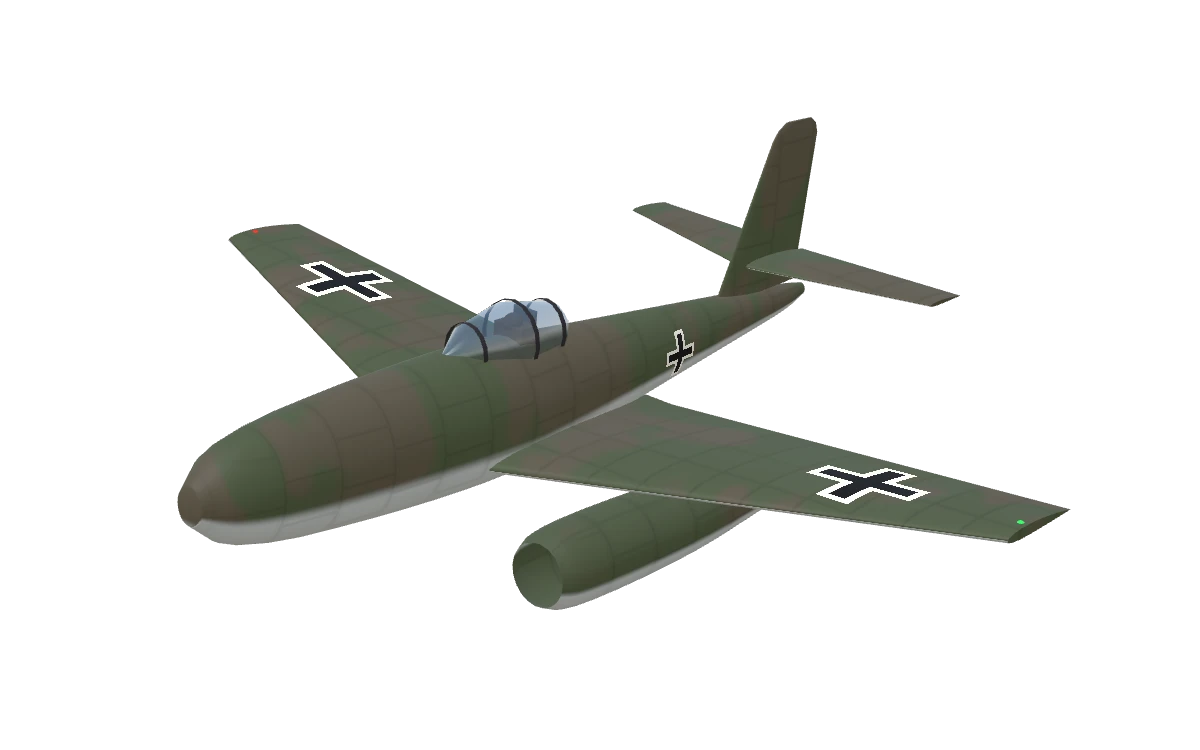
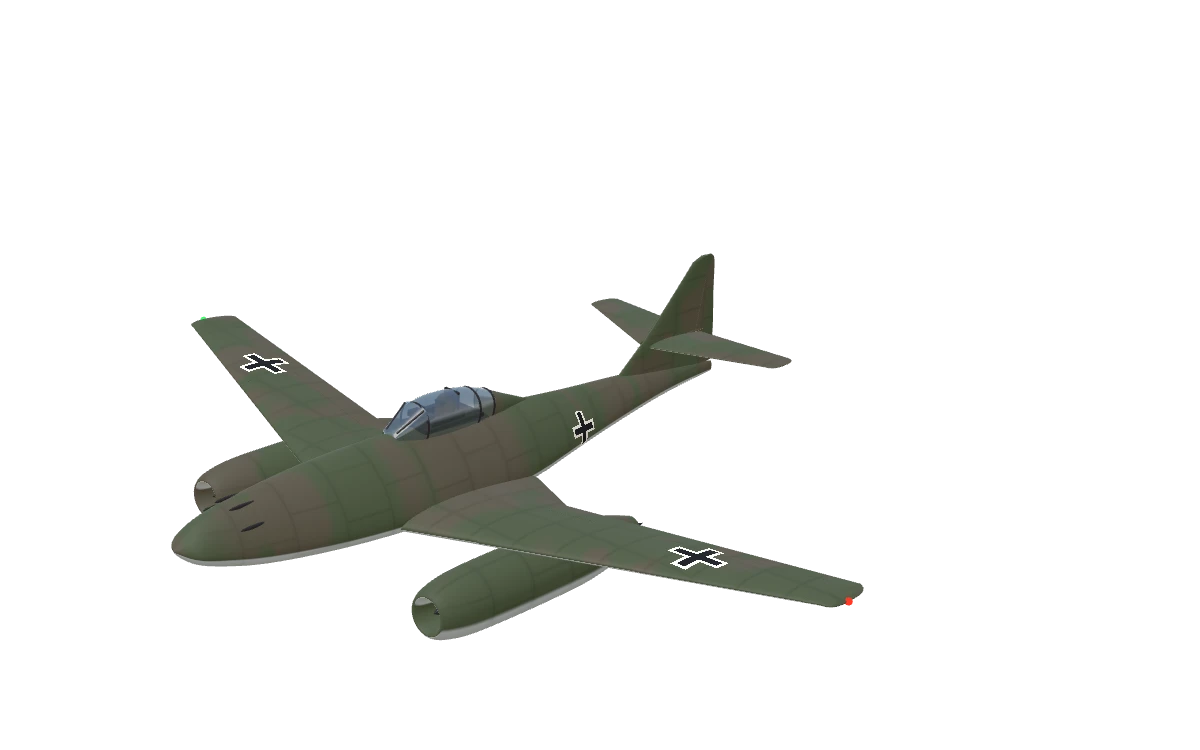
Me 262 ayrıntılı model: üç görünüş çiziminden üçgen kesitli gövde, Jumo 004 naselleri, kırık firar kenarlı kanat
- JetHull pTop: üst yarının ayrı dolgunluğu (üçgen kesit)
- Burun üstünde dört MK 108 ağzı, yana açılan kanopi, nasellerde göbekli giriş ve soğan koni
- Hareketli kumanda yüzeyleri, katlanır takım, ışıklar; gearHeight çizime göre; ansiklopedi görselleri yenilendi

Changed region(s): [[0.1233, 0.1533, 0.8942, 0.8587]]

diff --git a/src/render/models.ts b/src/render/models.ts
@@ -21,7 +21,7 @@ type Geo = THREE.BufferGeometry;
 let DETAIL = 1;
 /** Yüksek ayrıntıda ek çözünürlük çarpanı (videosu çekilen uçaklarda daha çok kenar ve profil noktası). */
 let RES = 1;
-const HIRES: Record<string, number> = { mig15: 2.4, sabre: 1.6, f84: 1.6, p80: 1.6 };
+const HIRES: Record<string, number> = { mig15: 2.4, sabre: 1.6, f84: 1.6, p80: 1.6, me262: 1.6 };
 /** Dönel parçaların kenar sayısı ayrıntıya göre. */
 const sg = (n: number) => (DETAIL ? Math.round(n * 2.25 * RES) : n);
 
@@ -771,14 +771,15 @@ const spow = (v: number, e: number) => Math.sign(v) * Math.abs(v) ** e;
 /**
  * Üç görünüş çiziminden alınmış kesitlerle yüzey (gövde, kanopi, kanal). Kesitler sırayla bağlanır: z azalırken yüz
  * dışa, artarken içe bakar; böylece hava girişi kanalın içinden başlayıp dudağı dönerek gövdeye geçebilir. Yüksek
- * ayrıntıda kesitler Chaikin ile yumuşar. p: kesit dolgunluğu (2 elips, büyüdükçe kare).
+ * ayrıntıda kesitler Chaikin ile yumuşar. p: kesit dolgunluğu (2 elips, büyüdükçe kare); pTop: üst yarının ayrı
+ * dolgunluğu (2'nin altı sivrilir: Me 262'nin üçgen kesiti).
  */
 class JetHull {
   readonly secs: JetSec[];
   /** Dış yüzey: en öndeki kesitten kuyruğa (z azalan). */
   private readonly outer: JetSec[];
 
-  constructor(raw: JetSec[], private readonly p = 2.2, smooth = true) {
+  constructor(raw: JetSec[], private readonly p = 2.2, smooth = true, private readonly pTop = p) {
     this.secs = (DETAIL && smooth ? chaikinN(raw, 2) : raw) as JetSec[];
     let nose = 0;
     this.secs.forEach((s, i) => {
@@ -802,8 +803,8 @@ class JetHull {
   /** Kesit halkasının a açısındaki noktası [x, y] (0 +x yanı, π/2 üst); off: yüzeyden dışarı pay. */
   ring(s: JetSec, a: number, off = 0): [number, number] {
     const [, w, top, bot, wy] = s;
-    const e = 2 / this.p;
     const sn = Math.sin(a);
+    const e = 2 / (sn >= 0 ? this.pTop : this.p);
     const x = w * spow(Math.cos(a), e);
     const y = (sn >= 0 ? top - wy : wy - bot) * spow(sn, e);
     const k = 1 + off / (Math.hypot(x, y) || 1);
@@ -924,7 +925,7 @@ class JetHull {
   sideX(z: number, y: number): number {
     const [, w, top, bot, wy] = this.at(z);
     const h = y >= wy ? top - wy : wy - bot;
-    const e = 2 / this.p;
+    const e = 2 / (y >= wy ? this.pTop : this.p);
     const sn = Math.min(0.999, Math.abs(y - wy) / h) ** (1 / e);
     return w * Math.sqrt(1 - sn * sn) ** e;
   }
@@ -932,7 +933,7 @@ class JetHull {
   /** Üst yüzeyde yanal x'teki y. */
   topY(z: number, x: number): number {
     const [, w, top, , wy] = this.at(z);
-    const e = 2 / this.p;
+    const e = 2 / this.pTop;
     const c = Math.min(0.999, Math.abs(x) / w) ** (1 / e);
     return wy + (top - wy) * Math.sqrt(1 - c * c) ** e;
   }
@@ -1103,6 +1104,15 @@ function shootingStarGear(gh: number): Geo[] {
     main: { x: 1.33, z: -0.21, top: -0.35, axle: -gh + 0.345, rw: 0.345, tw: 0.18, dx: 0.08, door: { dx: 0.12, top: -0.42, bot: -1.0, w: 0.66, r: 0.16 } },
     nose: { topY: -0.46, topZ: 3.25, axle: -gh + 0.28, z: 3.37, rw: 0.28, tw: 0.15 },
     belly: { x: 0.24, y: -0.58, z0: 3.3, z1: 2.35, h: 0.2 },
+  });
+}
+
+/** Me 262 takımı: yüksek duruş, 2,5 m iz, büyük ana tekerlekler gövdeye toplanır, uzun burun bacağı arkaya. */
+function schwalbeGear(gh: number): Geo[] {
+  return jetGear({
+    main: { x: 1.6, z: -0.08, top: -0.4, axle: -gh + 0.42, rw: 0.42, tw: 0.2, dx: 0.33, door: { dx: 0.09, top: -0.47, bot: -1.3, w: 0.3, r: 0.08 } },
+    nose: { topY: -0.36, topZ: 3.7, axle: -gh + 0.33, z: 3.87, rw: 0.33, tw: 0.16 },
+    belly: { x: 0.26, y: -0.5, z0: 3.2, z1: 2.2, h: 0.26 },
   });
 }
 
@@ -1484,19 +1494,67 @@ function defineModel(key: string): ModelDef {
         bombs: mirror(0.35, (x) => bombAt(x, -0.85, 0.9, 1.3)),
         tank: mirror(4.0, (x) => tankAt(-0.75, 1.0, x, 0.8)),
       };
-    case 'me262':
+    case 'me262': {
+      // Me 262 A-1a, ölçüler üç görünüş çiziminden. Üçgen kesitli gövde (geniş alt, dar üst), sivri burun ve üstünde dört
+      // MK 108 ağzı, yana açılan kanopi. Kanat kökte kalın, firar kenarı motorun içinde kırılır; hücum kenarı oklu.
+      // Kanat altında yuvarlak Jumo 004 naselleri: küçük giriş ve içinde göbek, arkada koyu egzoz ve soğan biçimli koni.
+      const H = new JetHull([
+        [4.4, 0.01, 0.01, -0.02, 0], [4.25, 0.3, 0.18, -0.18, -0.04], [3.95, 0.4, 0.36, -0.3, -0.08], [3.29, 0.58, 0.48, -0.46, -0.16], [2.01, 0.79, 0.61, -0.57, -0.24],
+        [0.38, 0.85, 0.63, -0.66, -0.3], [-1.2, 0.76, 0.55, -0.66, -0.3], [-2.65, 0.52, 0.42, -0.46, -0.16], [-3.87, 0.36, 0.36, -0.3, -0.04], [-5.08, 0.18, 0.27, -0.18, 0.02], [-6.3, 0.03, 0.07, -0.11, -0.02],
+      ], 2.15, true, 1.6);
+      const W: WingOpts = { x0: 1.85, z: 0.997, root: 1.757, y: -0.25, tipX: 6.24, tip: 0.86, sweep: 1.51, dihedral: 4.5, t: 0.22 };
+      const T: WingOpts = { x0: 0.1, z: -4.52, root: 1.28, y: 0.72, tipX: 1.79, tip: 0.63, sweep: 0.79, dihedral: 0, t: 0.11 };
+      const tipY = W.y + (W.tipX - W.x0) * tanD(W.dihedral);
+      const up = new THREE.Vector3(0, 1, 0);
+      const NX = 2.25;
+      const NY = -0.74;
+      const nacelle = (sd: number): Geo[] => {
+        const o = { x: sd * NX, y: NY };
+        return [
+          body([[1.9, 0.17], [2.15, 0.2], [2.25, 0.25], [2.22, 0.3], [2.1, 0.36], [1.75, 0.43], [1.2, 0.45], [0.3, 0.455], [-0.6, 0.44], [-1.2, 0.34], [-1.6, 0.22], [-1.72, 0.18]], 12, { ...o, smooth: true }),
+          tag(body([[1.3, 0.14], [1.92, 0.175]], 12, o), 'dark'),
+          tag(new THREE.CircleGeometry(0.14, sg(12)).translate(o.x, o.y, 1.3), 'dark'),
+          tag(body([[2.12, 0.001], [2.0, 0.06], [1.75, 0.09], [1.3, 0.09]], 8, { ...o, smooth: true }), 'dark'),
+          tag(body([[-1.72, 0.17], [-1.2, 0.15]], 12, o), 'dark'),
+          tag(body([[-1.98, 0.001], [-1.8, 0.05], [-1.55, 0.1], [-1.2, 0.09]], 8, { ...o, smooth: true }), 'dark'),
+        ];
+      };
       return {
         solids: [
-          fuselage({ noseZ: 5.3, tailZ: -5.3, r: 0.78, sy: 1.12, sx: 0.92, noseR: 0.25, peak: 0.42, rise: 0.35 }),
-          canopy(0.6, 2.2, 0.46, 0.8, 0.42),
-          ...wing({ x0: 0.6, z: 1.4, root: 3.3, y: -0.45, tipX: 6.3, tip: 1.3, sweep: 1.9, dihedral: 6, t: 0.3 }),
-          ...mirror(2.15, (x) => jetPod(x, -0.95, 2.2, 3.9, 0.5)),
-          ...wing({ x0: 0.1, z: -3.9, root: 1.3, y: 0.65, tipX: 2.5, tip: 0.7, sweep: 0.7, dihedral: 0, t: 0.12 }),
-          ...fins({ y0: 0.5, z0: -3.4, h: 2.0, root: 1.7, tip: 0.9, sweep: 1.0, t: 0.13 }),
+          H.geo(14),
+          ...[1, -1].flatMap((sd) => [[0.4, 3.45], [0.2, 3.45]].map(([y, z]) => portAt(sd * H.sideX(z, y), y, z, 0.03, 0.24))),
+          tag(H.patch(1, 0.35, -0.85, Math.PI / 2 - 0.34, Math.PI / 2 + 0.34, 0.006), 'dark'),
+          ...jetCanopy({
+            screen: [[0.86, 0.16, 0.66, 0.35, 0.6], [0.41, 0.27, 0.97, 0.35, 0.68]],
+            glass: [[0.41, 0.27, 0.97, 0.35, 0.68], [0.19, 0.3, 1.02, 0.35, 0.68], [-0.2, 0.3, 1.02, 0.35, 0.68], [-0.59, 0.27, 0.97, 0.35, 0.68], [-1.0, 0.18, 0.84, 0.35, 0.66]],
+            aft: [[-0.95, 0.19, 0.86, 0.3, 0.6], [-1.2, 0.15, 0.75, 0.3, 0.55], [-1.68, 0.05, 0.56, 0.25, 0.48], [-1.9, 0.01, 0.47, 0.25, 0.42]],
+            frames: [0.41, -0.6, -0.95],
+            posts: [[0.1, 0.67, 0.84], [0.19, 0.93, 0.43]],
+            pilot: { z: -0.05, len: 1.4, h: 0.36, y: 0.74, w: 0.3 },
+          }),
+          // İç kanat tek parça (kalın kök, firar kenarı kırılır); dışında flap ve kanatçık, uç yuvarlak
+          ...[1, -1].map((sd) => airfoilPart([
+            { le: new THREE.Vector3(sd * 0.4, -0.37, 1.5), c: 2.9, t: 0.32 },
+            { le: new THREE.Vector3(sd * 0.88, -0.33, 1.33), c: 2.58, t: 0.3 },
+            { le: new THREE.Vector3(sd * W.x0, W.y, W.z), c: W.root, t: W.t },
+          ], up, 0, 1)),
+          ...controlWing(W, 0.75, [[0, 0.47, 'flap'], [0.47, 0.485, null], [0.485, 0.95, 'aileron'], [0.95, 1, null]], 3),
+          ...nacelle(1),
+          ...nacelle(-1),
+          ...controlWing(T, 0.7, [[0, 0.96, 'elevator'], [0.96, 1, null]], 3),
+          ...jetFin([[0.1, -3.62, 2.69], [0.36, -3.93, 2.36], [0.8, -4.47, 1.78], [1.3, -4.99, 1.19], [1.75, -5.42, 0.72], [1.9, -5.56, 0.55], [1.97, -5.76, 0.27]], 0.14, 0.72, 1, 4),
+          body([[-4.35, 0.01], [-4.7, 0.07], [-5.6, 0.07], [-6.1, 0.01]], 8, { y: 0.72, sy: 0.7, smooth: true }),
         ],
         props: [],
-        bombs: mirror(0.3, (x) => bombAt(x, -0.95, 1.0, 1.3)),
+        markZ: -2.6,
+        lights: [
+          { p: [W.tipX + 0.17, tipY, W.z - W.sweep - W.tip * 0.4], kind: 'red' },
+          { p: [-W.tipX - 0.17, tipY, W.z - W.sweep - W.tip * 0.4], kind: 'green' },
+          { p: [0, 1.5, -6.12], kind: 'white' },
+          { p: [1.4, -0.46, 0.9], kind: 'landing' },
+        ],
       };
+    }
     case 'mig15': {
       // Hareketli yüzeyler (eklem, menteşe ekseninde döner): kanadın firar kenarında içte flap, dışta kanatçık (%25
       // veter); yatay kuyrukta irtifa dümeni, dikey kuyrukta istikamet dümeni (%30). Hava frenleri ve katlanır iniş
@@ -2422,6 +2480,7 @@ function landingGear(probe: Probe, bb: THREE.Box3, spec: AircraftSpec | undefine
   if (kind === 'sabre') return sabreGear(gearHeight(spec));
   if (kind === 'f84') return thunderjetGear(gearHeight(spec));
   if (kind === 'p80') return shootingStarGear(gearHeight(spec));
+  if (kind === 'me262') return schwalbeGear(gearHeight(spec));
   const gh = spec.span > 25 ? 3.4 : spec.engines > 1 ? 2.6 : 1.9;
   const half = bb.max.x;
   const tricycle = !spec.tailDragger;

diff --git a/src/sim/aircraft/flightModel.ts b/src/sim/aircraft/flightModel.ts
@@ -77,6 +77,7 @@ export function gearHeight(spec: AircraftSpec): number {
   if (spec.id === 'f86f') return 1.72;
   if (spec.id === 'f84g') return 1.62;
   if (spec.id === 'f80c') return 1.45;
+  if (spec.id === 'me262') return 1.88;
   return spec.span > 25 ? 3.4 : spec.engines > 1 ? 2.6 : 1.9;
 }
 
